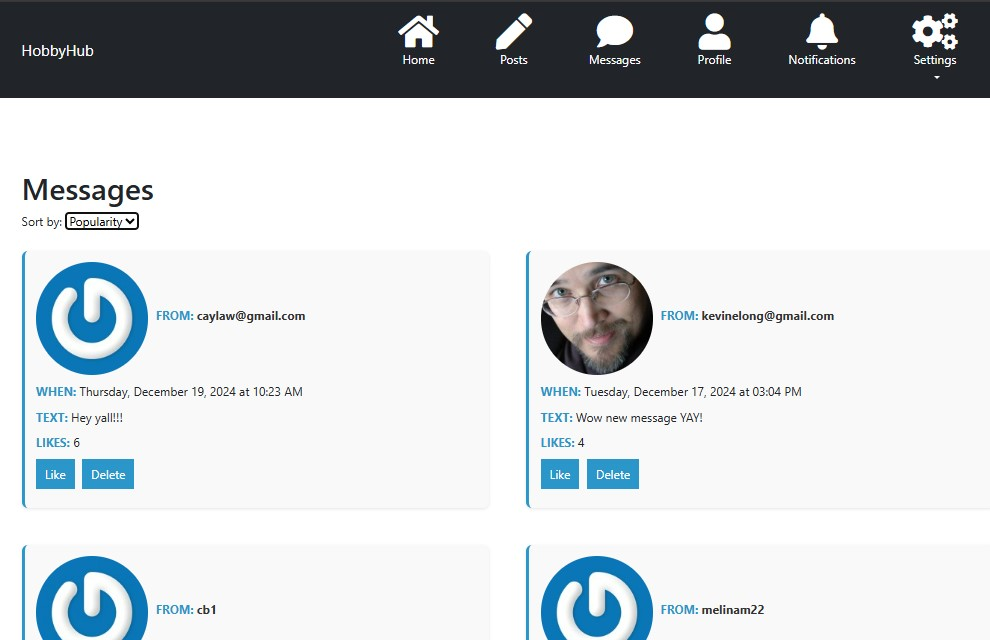
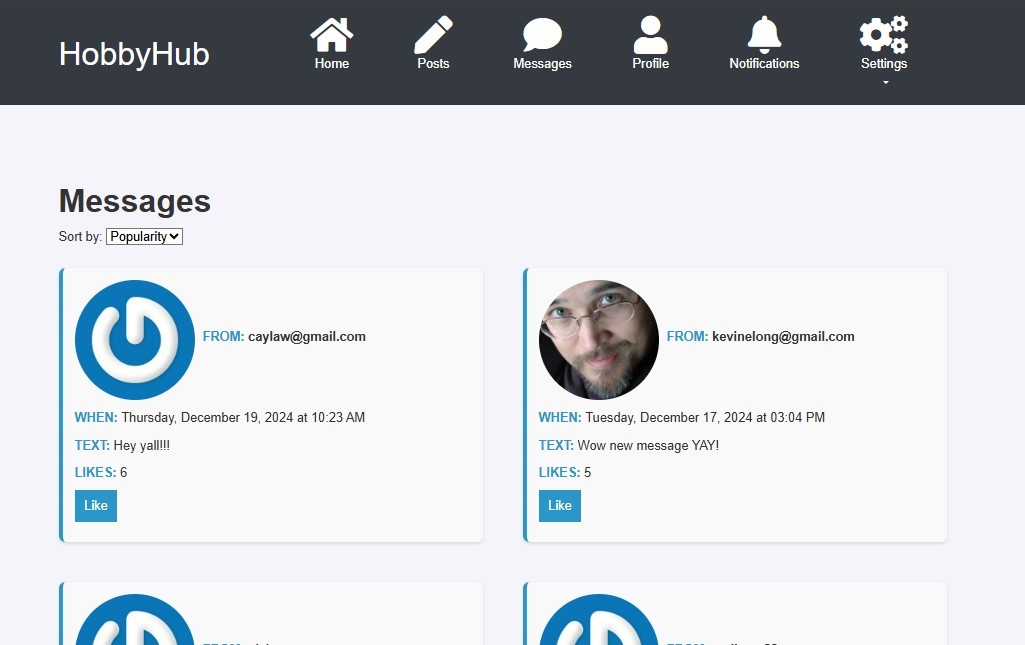
update css

diff --git a/messages.html b/messages.html
@@ -5,19 +5,20 @@
     <meta charset="UTF-8">
     <meta name="viewport" content="width=device-width, initial-scale=1.0">
     <title>HobbyHub - Messages</title>
-    <link href="https://stackpath.bootstrapcdn.com/bootstrap/4.5.2/css/bootstrap.min.css" rel="stylesheet">
-    <link href="https://cdnjs.cloudflare.com/ajax/libs/font-awesome/5.15.4/css/all.min.css" rel="stylesheet">
-    <link rel="stylesheet" href="./css/main.css">
     <link rel="stylesheet" href="./css/messages.css">
     <link href="https://cdn.jsdelivr.net/npm/bootstrap@5.3.0-alpha1/dist/css/bootstrap.min.css" rel="stylesheet">
+    <script src="https://kit.fontawesome.com/a076d05399.js"></script> 
+    <script src="https://cdnjs.cloudflare.com/ajax/libs/crypto-js/4.1.1/crypto-js.min.js"></script> 
+    <link href="https://stackpath.bootstrapcdn.com/bootstrap/4.5.2/css/bootstrap.min.css" rel="stylesheet">
+    <link rel="stylesheet" href="./css/main.css">
+    <link href="https://cdnjs.cloudflare.com/ajax/libs/font-awesome/5.15.4/css/all.min.css" rel="stylesheet">
     <script src="https://code.jquery.com/jquery-3.5.1.slim.min.js"></script>
     <script src="https://cdn.jsdelivr.net/npm/@popperjs/core@2.5.2/dist/umd/popper.min.js"></script>
     <script src="https://stackpath.bootstrapcdn.com/bootstrap/4.5.2/js/bootstrap.min.js"></script>
-    <script src="https://kit.fontawesome.com/a076d05399.js"></script> 
     <script src="./js/main.js"></script>
     <script src="./js/message.js"></script>
     <script src="./js/settings.js"></script>
-    <script src="https://cdnjs.cloudflare.com/ajax/libs/crypto-js/4.1.1/crypto-js.min.js"></script> 
+
 </head>
 <body>
     <!-- Navbar -->
@@ -54,7 +55,7 @@
                         </a>
                     </li>
                     <li class="nav-item">
-                        <a class="nav-link" href="notifications.html">
+                        <a class="nav-link" href="#">
                             <i class="fas fa-bell fa-3x"></i>
                             <div>Notifications</div>
                         </a>

diff --git a/post.html b/post.html
@@ -6,11 +6,11 @@
     <title>New Text</title>
     <link href="https://stackpath.bootstrapcdn.com/bootstrap/4.5.2/css/bootstrap.min.css" rel="stylesheet">
     <link href="https://cdnjs.cloudflare.com/ajax/libs/font-awesome/5.15.4/css/all.min.css" rel="stylesheet">
+    <link rel="stylesheet" href="./css/main.css">
+    <link rel="stylesheet" href="./css/posts.css">
     <script src="https://code.jquery.com/jquery-3.5.1.slim.min.js"></script>
     <script src="https://cdn.jsdelivr.net/npm/@popperjs/core@2.5.2/dist/umd/popper.min.js"></script>
     <script src="https://stackpath.bootstrapcdn.com/bootstrap/4.5.2/js/bootstrap.min.js"></script>
-    <link rel="stylesheet" href="./css/main.css">
-    <link rel="stylesheet" href="./css/posts.css">
     <script src="./js/main.js"></script>
     <script src="./js/post.js"></script>
     <script src="./js/settings.js"></script>
@@ -51,7 +51,7 @@
                             </a>
                         </li>
                         <li class="nav-item">
-                            <a class="nav-link" href="notifications.html">
+                            <a class="nav-link" href="#">
                                 <i class="fas fa-bell fa-3x"></i>
                                 <div>Notifications</div>
                             </a>

diff --git a/profile.html b/profile.html
@@ -7,7 +7,6 @@
     <title>Edit Profile</title>
     <link href="https://stackpath.bootstrapcdn.com/bootstrap/4.5.2/css/bootstrap.min.css" rel="stylesheet">
     <link href="https://cdnjs.cloudflare.com/ajax/libs/font-awesome/5.15.4/css/all.min.css" rel="stylesheet">
-    <link rel="stylesheet" href="./css/home.css">
     <link rel="stylesheet" href="./css/main.css">
     <link rel="stylesheet" href="./css/profile.css">
     <script src="https://code.jquery.com/jquery-3.5.1.slim.min.js"></script>
@@ -53,7 +52,7 @@
                         </a>
                     </li>
                     <li class="nav-item">
-                        <a class="nav-link" href="notifications.html">
+                        <a class="nav-link" href="#">
                             <i class="fas fa-bell fa-3x"></i>
                             <div>Notifications</div>
                         </a>

diff --git a/home.html b/home.html
@@ -50,7 +50,7 @@
                         </a>
                     </li>
                     <li class="nav-item">
-                        <a class="nav-link" href="notifications.html">
+                        <a class="nav-link" href="#">
                             <i class="fas fa-bell fa-3x"></i>
                             <div>Notifications</div>
                         </a>

diff --git a/settings.html b/settings.html
@@ -49,7 +49,7 @@
                         </a>
                     </li>
                     <li class="nav-item">
-                        <a class="nav-link" href="notifications.html">
+                        <a class="nav-link" href="#">
                             <i class="fas fa-bell fa-3x"></i>
                             <div>Notifications</div>
                         </a>

diff --git a/css/messages.css b/css/messages.css
@@ -1,9 +1,3 @@
-/* General container and typography styling */
-body {
-    font-family: 'Arial', sans-serif;
-    background-color: #f4f7fa;
-    color: #333;
-}
 
 /* Output section (Grid Layout for Messages) */
 #output {
